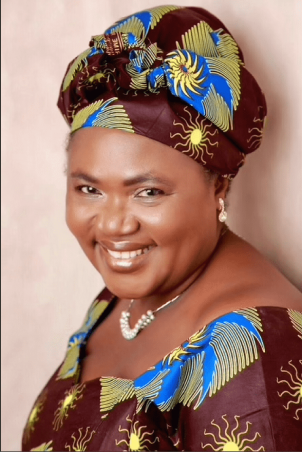
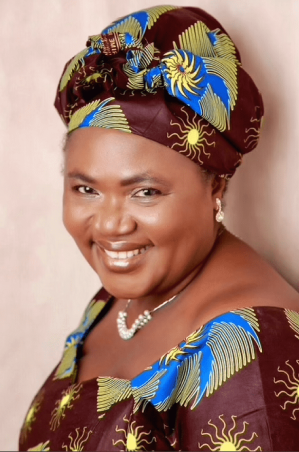
feat(client): about section and work section complete

diff --git a/src/Components/Layout/Home/Home.tsx b/src/Components/Layout/Home/Home.tsx
@@ -1,4 +1,5 @@
 import { useState } from "react";
+import {FaBell} from 'react-icons/fa'
 
 import "./Home.css";
 import { FaPhone } from "react-icons/fa";
@@ -19,10 +20,10 @@ export default function Home(): JSX.Element {
   return (
     <section
       id="hero"
-      className="container relative h-screen px-2 py-2 mx-auto mb-24 overflow-hidden duration-500 max-w-7xl h-[930px] tablet:h-[750px] "
+      className=" relative h-screen px-3 py-3 section-container mb-16 overflow-hidden duration-500 h-[930px] tablet:h-[650px] laptop:h-[800px] laptop:px-0"
     >
       {/* HEADER */}
-      <header className="flex items-center justify-between font-serif laptop:px-8">
+      <header className="flex items-center justify-between px-1 font-serif laptop:px-0 desktop:px-2">
         {/* Logo */}
         <img
           src={DarkLogo}
@@ -30,7 +31,7 @@ export default function Home(): JSX.Element {
           className="h-12 cursor-pointer w-44 contrast-100 brightness-150 "
         />
         {/* MENU */}
-        <nav className="hidden h-10 pt-3 text-sm font-normal desktop:text-[15px] opacity-80 laptop:flex tablet:space-x-8 desktop:space-x-9">
+        <nav className="hidden h-10 pt-3 text-sm font-medium opacity-80 laptop:flex laptop:space-x-6 desktop:space-x-7 desktop:text-[16px] opacity-50 ">
           <div className="group">
             <a href="#" className="cursor-pointer">
               Home
@@ -63,8 +64,11 @@ export default function Home(): JSX.Element {
           </div>
         </nav>
         {/* PHONE */}
-        <div className="flex hidden pt-0 pr-10 space-x-2 tablet:flex laptop:pl-12">
-          <FaPhone size={18} className="text-yellow-400 " />
+        <div className="flex hidden pr-16 space-x-2 tablet:flex laptop:pr-0">
+          <FaPhone
+            size={18}
+            className="text-yellow-400 delay-500 animate-ping"
+          />
           <h4 className="text-sm text-bgPurple font-body tablet:font-black ">
             +(44) 753 823 6771
           </h4>
@@ -94,29 +98,40 @@ export default function Home(): JSX.Element {
         </label>
       </header>
 
-      {/* HEADING TITLE */}
-      <div className="container mx-auto laptop:px-6">
-        <div className="absolute z-20 top-[290px] w-[460px] pl-4 sm:pl-12 tablet:pl-4 tablet:space-y-32 space-y-40 tablet:left-6 tablet:-mt-32 laptop:-mt-28 laptop:space-y-36 laptop:left-20 mx-12 desktop:left-24">
-          <div className="space-y-20 text-white tablet:space-y-12 laptop:space-y-14 tablet:text-black ">
-            <div className="flex flex-col sm:px-4 tablet:px-0 tablet:space-y-0 sm:space-y-2 tablet:space-y-4 laptop:space-y-4">
-              <div className="font-serif text-[55px] -space-y-4 sm:-space-y-1 font-medium  tablet:font-bold tablet:-space-y-4 laptop:-space-y-4 desktop:text-[100px] desktop:-space-y-4">
-                <h1 className="text-6xl sm:text-6xl tablet:text-7xl laptop:text-8xl desktop:text-[105px]">
-                  Bespoke
-                </h1>
-                <h1 className="sm:text-6xl tablet:text-7xl laptop:text-8xl desktop:text-[105px]">
-                  Garments
-                </h1>
+      {/* MAIN SECTION */}
+      <div className="container mx-auto ">
+        <div className="absolute z-20 top-72 w-[460px] pl-7 sm:pl-16 tablet:pl-4 tablet:space-y-32 space-y-40 tablet:top-36 laptop:space-y-36 laptop:left-6 mx-10 desktop:left-10 ">
+          <div className="space-y-20 text-white tablet:space-y-12 laptop:space-y-16 tablet:text-black ">
+            <div className="flex flex-col space-y-3 sm:px-4 tablet:px-0 tablet:space-y-0 sm:space-y-3 tablet:space-y-4 laptop:space-y-6">
+              {/* BESPOKE GARMENTS */}
+              <div
+                className="max-w-xs font-serif text-[55px] font-medium leading-[50px] tablet:font-black tablet:text-7xl tablet:leading-[60px] laptop:text-8xl 
+               laptop:leading-[75px]  desktop:text-[112px] desktop:leading-[90px] "
+              >
+                <h1>Bespoke Garments</h1>
               </div>
 
-              <h4 className="tablet:flex text-[12px] w-2/4  sm:w-[200px] font-light tablet:leading-5 tablet:opacity-50 tablet:flex tablet:w-3/4 text-justify tablet:text-xs laptop:w-[400px] laptop:leading-6 laptop:text-sm desktop:text-[15px] opacity-70 desktop:w-[420px] font-serif">
+              <h4 className="tablet:flex text-[12px] w-3/5   font-light tablet:leading-5 tablet:opacity-50 tablet:flex tablet:w-3/4 text-justify tablet:text-xs laptop:w-[390px] laptop:leading-6 laptop:text-sm desktop:text-[15px] opacity-70 desktop:w-[480px] desktop:text-[17px] font-serif desktop:leading-7">
                 We Specialise in producing bespoke, custom made garments for
                 every special occasion, with the best customer service next to
                 none.
               </h4>
             </div>
-            <button className="text-xs hover:scale-105 rounded-sm ml-4 py-3 px-20 duration-500 font-serif font-light tablet:ml-0 tablet:px-10 tablet:py-2 tablet:text-[10px] laptop:px-12 laptop:py-3 laptop:text-sm shadow shadow-3xl border border-slate-100">
+
+            {/* MOBILE BUTTON */}
+            <button className="text-xs tablet:hidden hover:scale-105 rounded-sm ml-4 py-3 px-20 duration-500 font-serif font-light tablet:ml-0 tablet:px-10 tablet:py-2 tablet:text-[10px] laptop:px-12 laptop:py-3 laptop:text-sm shadow shadow-3xl border border-slate-100 ">
               Get in touch
             </button>
+
+            {/* LAPTOP BUTTONS */}
+            <div className="flex flex-col hidden tablet:flex tablet:flex-row laptop:space-x-1 laptop:flex ">
+              <button className="px-10 py-3 font-serif text-xs text-white font-light duration-500 border border-none rounded-sm rounded-br-full shadow rounded-tr-3xl hover:scale-105 shadow-3xl cursor-pointer desktop:px-14 border-slate-100 bg-gradient-to-r from-[#E34CCE] to-[#E39B57]">
+                Get in touch
+              </button>
+              <button className="px-10 py-3 font-serif text-xs font-light duration-500 border rounded-sm rounded-tl-full shadow cursor-pointer rounded-bl-3xl hover:scale-105 shadow-3xl desktop:px-14 flex gap-1"> <FaBell className="top-"/>
+                 Collection
+              </button>
+            </div>
           </div>
           {/* Social Media */}
           <div className="flex hidden w-5 h-5 space-x-2 tablet:flex tablet:pl-0 laptop:flex ">
@@ -131,10 +146,14 @@ export default function Home(): JSX.Element {
           id="hero-image"
           src={HeroImage}
           alt="Hero Image"
-          className="absolute z-10 h-[850px] -mt-8 duration-500 contrast-125 sm:absolute-none tablet:right-6 tablet:-mt-12 tablet:h-[630px] laptop:h-[760px] laptop:-mt-20 laptop:right-16 desktop:right-32 object-cover"
+          className="absolute z-10 h-[780px] -mt-10 duration-500 contrast-125 sm:absolute-none tablet:right-9 tablet:-mt-12 tablet:h-[600px] laptop:h-[730px] laptop:-mt-20 laptop:right-6 desktop:right-12 
+          desktop:-mt-20 object-cover object-center"
         />
 
-        <div className="absolute -rotate-90 -left-[72px] top-[270px] font-serif font-bold w-[800px] opacity-10 text-[140px] sm:text-9xl sm:left-3 tablet:text-[105px] tablet:left-[300px] tablet:top-[150px] laptop:left-2/4 laptop:text-[125px] laptop:top-[250px]">
+        <div
+          className="absolute -rotate-90 -left-[72px] top-[230px] font-serif font-bold w-[800px] opacity-5 text-9xl sm:left-3 tablet:text-[105px] tablet:left-64 tablet:top-[100px] laptop:left-[510px] laptop:text-[125px] laptop:top-[205px]
+        desktop:left-[620px] "
+        >
           Tailor Made
         </div>
       </div>

diff --git a/src/Components/Layout/AboutSection/About.tsx b/src/Components/Layout/AboutSection/About.tsx
@@ -1,17 +1,18 @@
 import Conversation from "../../assets/Gifs/Conversation.gif";
 import Gift from "../../assets/Gifs/Gift.gif";
-import lady from "../../assets/Images/lady.png";
+import ladyLight from "../../assets/Images/ladyLight.png";
+import ladyDark from "../../assets/Images/ladyDark.png";
 
 function About(): JSX.Element {
   return (
     <section
       id="about"
-      className="container max-w-6xl p-6 mx-auto mb-24 sm:p-8 "
+      className="container p-6 mx-auto mb-6 max-w-7xl sm:p-14 "
     >
       <div className=" tablet:space-y-6">
         <div className="container mx-auto space-y-4 tablet:py-6 laptop:px-24 tablet:px-28 laptop:px-52">
           <h2>ABOUT US</h2>
-          <p className="text-center sm:px-2">
+          <p className="text-center sm:px-2 tablet:leading-6">
             We offer a selection of attractive, diverse products and a quality
             designs to ensure maximum client satifaction.
           </p>
@@ -20,8 +21,8 @@ function About(): JSX.Element {
         {/* SERVICES */}
         <section className="container flex flex-col mx-auto space-y-12 tablet:space-y-0 tablet:flex-row tablet:justify-between tablet:max-w-3xl tablet:px-8 laptop:px-2">
           {/*  IMAGE */}
-          <div className="hidden tablet:flex h-[400px] laptop:h-[450px]">
-            <img src={lady} alt="tailor image" />
+          <div className="hidden tablet:flex h-[400px] laptop:h-[450px] saturate-150">
+            <img src={ladyLight} alt="tailor image" />
           </div>
 
           {/* SERVICES + WOMEN & CHILDREN  */}
@@ -53,7 +54,7 @@ function About(): JSX.Element {
                 className="w-8 h-8 "
               />
               <div className="space-y-4 tablet:space-y-6">
-                <h3 className="mx-16 sm:mx-24 tablet:mx-12">
+                <h3 className="mx-14 sm:mx-24 tablet:mx-12">
                   WOMEN & CHILDREN SERVICES
                 </h3>
                 <p className="tablet:text-xs tablet:leading-6 laptop:text-sm laptop:leading-7">

diff --git a/src/index.css b/src/index.css
@@ -2,7 +2,7 @@
 @tailwind components;
 @tailwind utilities;
 
-@import url('https://fonts.googleapis.com/css2?family=Playfair+Display:wght@400;500;600;700;900&display=swap');
+@import url("https://fonts.googleapis.com/css2?family=Playfair+Display:wght@400;500;600;700;900&display=swap");
 @import url("https://fonts.googleapis.com/css2?family=Merriweather&display=swap");
 @import url("https://fonts.googleapis.com/css2?family=Poppins:wght@300;400&display=swap");
 
@@ -14,15 +14,28 @@
 
 @layer base {
   h2 {
-    @apply text-bgPurple font-serif font-semibold text-center text-3xl 
+    @apply text-bgPurple font-serif font-semibold text-center text-3xl;
   }
 
   h3 {
-    @apply text-center font-medium text-xl font-serif font-medium tablet:text-lg tablet:text-base
+    @apply text-center font-medium text-xl font-serif font-medium tablet:text-lg tablet:text-base;
   }
 
   p {
-    @apply text-xs sm:text-sm sm:leading-7 font-body text-justify leading-6  laptop:text-lg laptop:leading-9 font-serif 
+    @apply text-xs sm:text-sm sm:leading-7 font-body text-justify leading-6  laptop:text-lg laptop:leading-9 font-serif;
   }
+
 }
 
+
+.section-container {
+  @apply container sm:max-w-lg mx-auto max-w-7xl tablet:max-w-3xl laptop:max-w-5xl desktop:max-w-6xl;
+}
+
+.grid-container {
+  @apply grid gap-2 tablet:grid-cols-2 laptop:grid-cols-3 desktop:grid-cols-4 sm:max-w-lg mx-auto tablet:max-w-2xl laptop:p-12 laptop:max-w-5xl desktop:max-w-6xl;
+}
+
+.image {
+  @apply tablet:object-cover w-full h-full ;
+}

diff --git a/src/Components/Layout/OurWorkSection/OurWork.tsx b/src/Components/Layout/OurWorkSection/OurWork.tsx
@@ -9,11 +9,22 @@ import img8 from "../../assets/Images/img-8.png";
 
 function OurWork(): JSX.Element {
   return (
-    <section id="work" className="container p-6 mx-auto mb-24">
-      <div className="container mx-auto ">
-        <h2>OUR WORK</h2>
-        <p className="text-center">A collection from some of our happy customers</p>
-      </div>
+    <section
+      id="work"
+      className="container px-6 py-8 mx-auto mb-24 space-y-8 duration-1000 tablet:px-0 sm:p-4 "
+    >
+      <h2>OUR WORK</h2>
+
+      <section className="relative group grid-container">
+        <img src={img2} alt="" className="image" />
+        <img src={img7} alt="" className="image" />
+        <img src={img4} alt="" className="image" />
+        <img src={img3} alt="" className="image" />
+        <img src={img1} alt="" className="image" />
+        <img src={img5} alt="" className="object-left image" />
+        <img src={img6} alt="" className="image" />
+        <img src={img8} alt="" className="image" />
+      </section>
     </section>
   );
 }

diff --git a/tailwind.config.js b/tailwind.config.js
@@ -11,9 +11,9 @@ module.exports = {
 
       laptop: "1024px",
 
-      desktop: "1200px",
+      desktop: "1280px",
 
-      "2xl": "1440px",
+      "2xl": "1536px",
     },
     fontFamily: {
       serif: ["Playfair Display", "system-ui"],
@@ -21,9 +21,12 @@ module.exports = {
       body: ["Poppins"],
     },
     extend: {
+      fontSize: {
+        "9xl": "8.2rem",
+      },
       colors: {
         bgPurple: "#E635ED",
-        darkMode: "hsla(223, 40%, 9%, 1)",
+        darkMode: "hsla(225, 35%, 12%, 1)",
       },
 
       backgroundColor: {

diff --git a/src/App.tsx b/src/App.tsx
@@ -2,7 +2,7 @@ import MainSection from "./Components/MainSection";
 
 function App() {
   return (
-    <div className="text-black bg-white dark ">
+    <div className="text-black bg-white dark">
       <MainSection />
     </div>
   );
